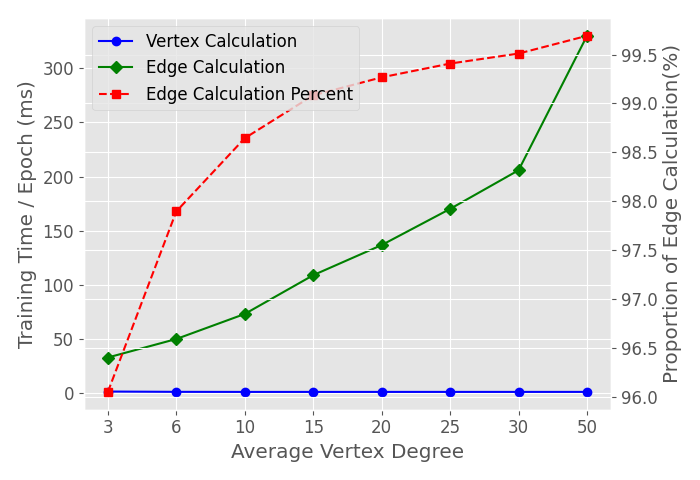
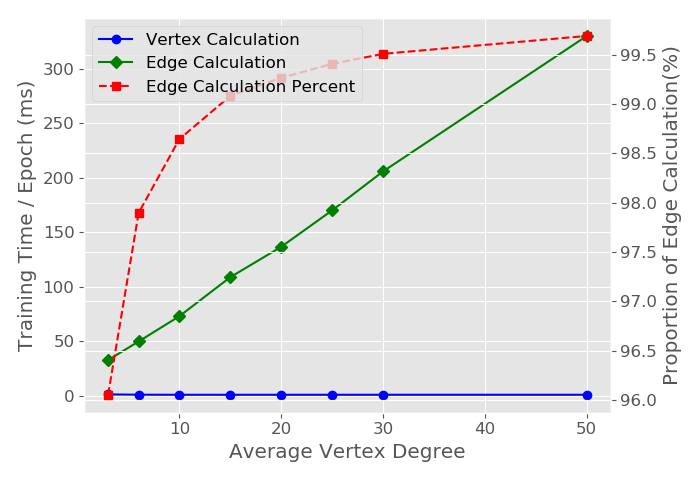
更新点边计算耗时比例的分析.

Changed region(s): [[0.03, 0.0625, 0.99, 0.9688], [0.06, 0.0625, 0.18, 0.2188]]

diff --git a/Technical-report/gnn-performance-bottleneck-analysis.md b/Technical-report/gnn-performance-bottleneck-analysis.md
@@ -112,7 +112,9 @@ GAT训练耗时随$h_{head}$和$K$呈线性增长.
 
 GaAN同样采用多头机制,其计算复杂度受$h_{in}$、$d_v$、$d_a$和头数$K$的影响.
 [@fig:exp_hyperparameter_on_vertex_edge_phase_time_gat]展示了GaAN训练耗时受超参数的影响.
-实验验证了表[@tbl:gnn_overview]中给出的复杂度分析结果,各GNN算法的训练耗时随着超参数的增加呈线性增长.
+实验验证了[@tbl:gnn_overview]中给出的复杂度分析结果,各GNN算法的训练耗时随着超参数的增加呈线性增长.
+当隐向量维度$h_{in}$过低时, 涉及隐向量的计算占总计算时间比例很低, 导致其总训练耗时变化不明显.
+当隐向量维度足够大时, 总训练时间随$h_{in}$呈线性增长.
 
 <div id="fig:exp_hyperparameter_on_vertex_edge_phase_time">
 
@@ -142,29 +144,33 @@ GaAN同样采用多头机制,其计算复杂度受$h_{in}$、$d_v$、$d_a$和头
 </div>
 
 实验验证了[@tbl:gnn_overview]中复杂度分析的有效性.
-GNN的训练耗时与显存使用均与超参数呈线性关系.
+*GNN的训练耗时与显存使用均与超参数呈线性关系*.
 这允许算法工程师使用更大的超参数来提升GNN的复杂度,而不用担心训练耗时和显存使用呈现爆炸性增长.
 
 ## 4.2 实验2: 训练耗时分解
 
 本实验的目标是通过对训练耗时的分解, 发掘GNN训练中的计算性能瓶颈.
 
-对于点计算和边计算, [@fig:exp_vertex_edge_cal_proportion]展示了各算法的点/边计算耗时(含forward, backward和evaluation阶段)占总训练耗时的比例情况.
-对于边计算复杂度高的算法GAT和GaAN, 其边计算耗时占绝对主导.
-对于点/边计算复杂度都低的GCN算法, 在大多数数据集上边计算耗时也占主导.
-`cph`数据集因为输入特征向量维度非常高, 导致Layer0的点计算耗时.
-GGNN因为其点计算复杂度高, 使其点计算耗时占比相比其他算法明显提高, 但大多数数据集上依然低于边计算.
-在`pub`和`cam`数据集上, 因为两个数据集平均度数较低 (仅为4.5和2.8), 使边计算开销与点计算开销接近.
-可见点边计算耗时比例同时受数据集的平均度数的影响.
-我们固定图的顶点数为50k, 利用R-MAT生成器平均度数在10到100之间的随机图, 并在这些随机图上测量点/边计算耗时比例, 如图[@fig:exp_avg_degree_vertex_edge_cal_time]所示.
-实验表明边计算耗时在绝大部分情况下主导了整个计算耗时, 只有在点计算复杂度非常高且平均度数非常低的情况下点计算耗时才能赶超边计算耗时.
+对于点计算和边计算, [@fig:exp_vertex_edge_cal_proportion]展示了各算法不同GNN层点/边计算耗时占总训练耗时的比例情况(含forward, backward和evaluation阶段).
+GCN算法在大多数数据集上边计算耗时占据主导.
+只有`cph`数据集是特例, 因为该数据集输入特征向量维度非常高, 导致Layer0的点计算耗时额外的高.
+GGNN因为其点计算复杂度高, 使其点计算耗时占比明显高于其他算法, 但在大多数数据集上依然是边计算占据主要的计算耗时.
+只有在`pub`和`cam`数据集上,边计算开销和点计算开销接近,因为两个数据集平均度数较低 (仅为4.5和2.8).
+对于GAT和GaAN算法, 因为其边计算复杂度高, 其边计算耗时占绝对主导.
+综上, *边计算是GNN训练的主要耗时因素*, 尤其是在边计算较为复杂的情况下.
+
+实验也表明*数据集的平均度数影响点/边计算的耗时比例*.
+我们固定图的顶点数为50k, 利用R-MAT生成器生成平均度数在10到100之间的随机图.
+我们测量了各GNN中点/边计算的耗时比例随图平均度数的变化情况, 如[@fig:exp_avg_degree_vertex_edge_cal_time]所示.
+边计算的耗时随着平均度数的增加呈线性增长, *边计算耗时在绝大部分情况下主导了整个计算耗时*, 只有在点计算复杂度非常高且平均度数非常低的情况下点计算耗时才能赶超边计算耗时.
+因此, *GNN训练优化的重点应该是提升边计算的效率*.
 
 <div id="fig:exp_vertex_edge_cal_proportion">
-![GCN](./figs/experiments/exp_vertex_edge_cal_proportion_gcn.png)
-![GGNN](./figs/experiments/exp_vertex_edge_cal_proportion_ggnn.png)
+![GCN](./figs/experiments/exp_layer_time_proportion_gcn.png)
+![GGNN](./figs/experiments/exp_layer_time_proportion_ggnn.png)
 
-![GAT](figs/experiments/exp_vertex_edge_cal_proportion_gat.png)
-![GaAN](figs/experiments/exp_vertex_edge_cal_proportion_gaan.png)
+![GAT](figs/experiments/exp_layer_time_proportion_gat.png)
+![GaAN](figs/experiments/exp_layer_time_proportion_gaan.png)
 
 点/边计算耗时占比
 </div>
